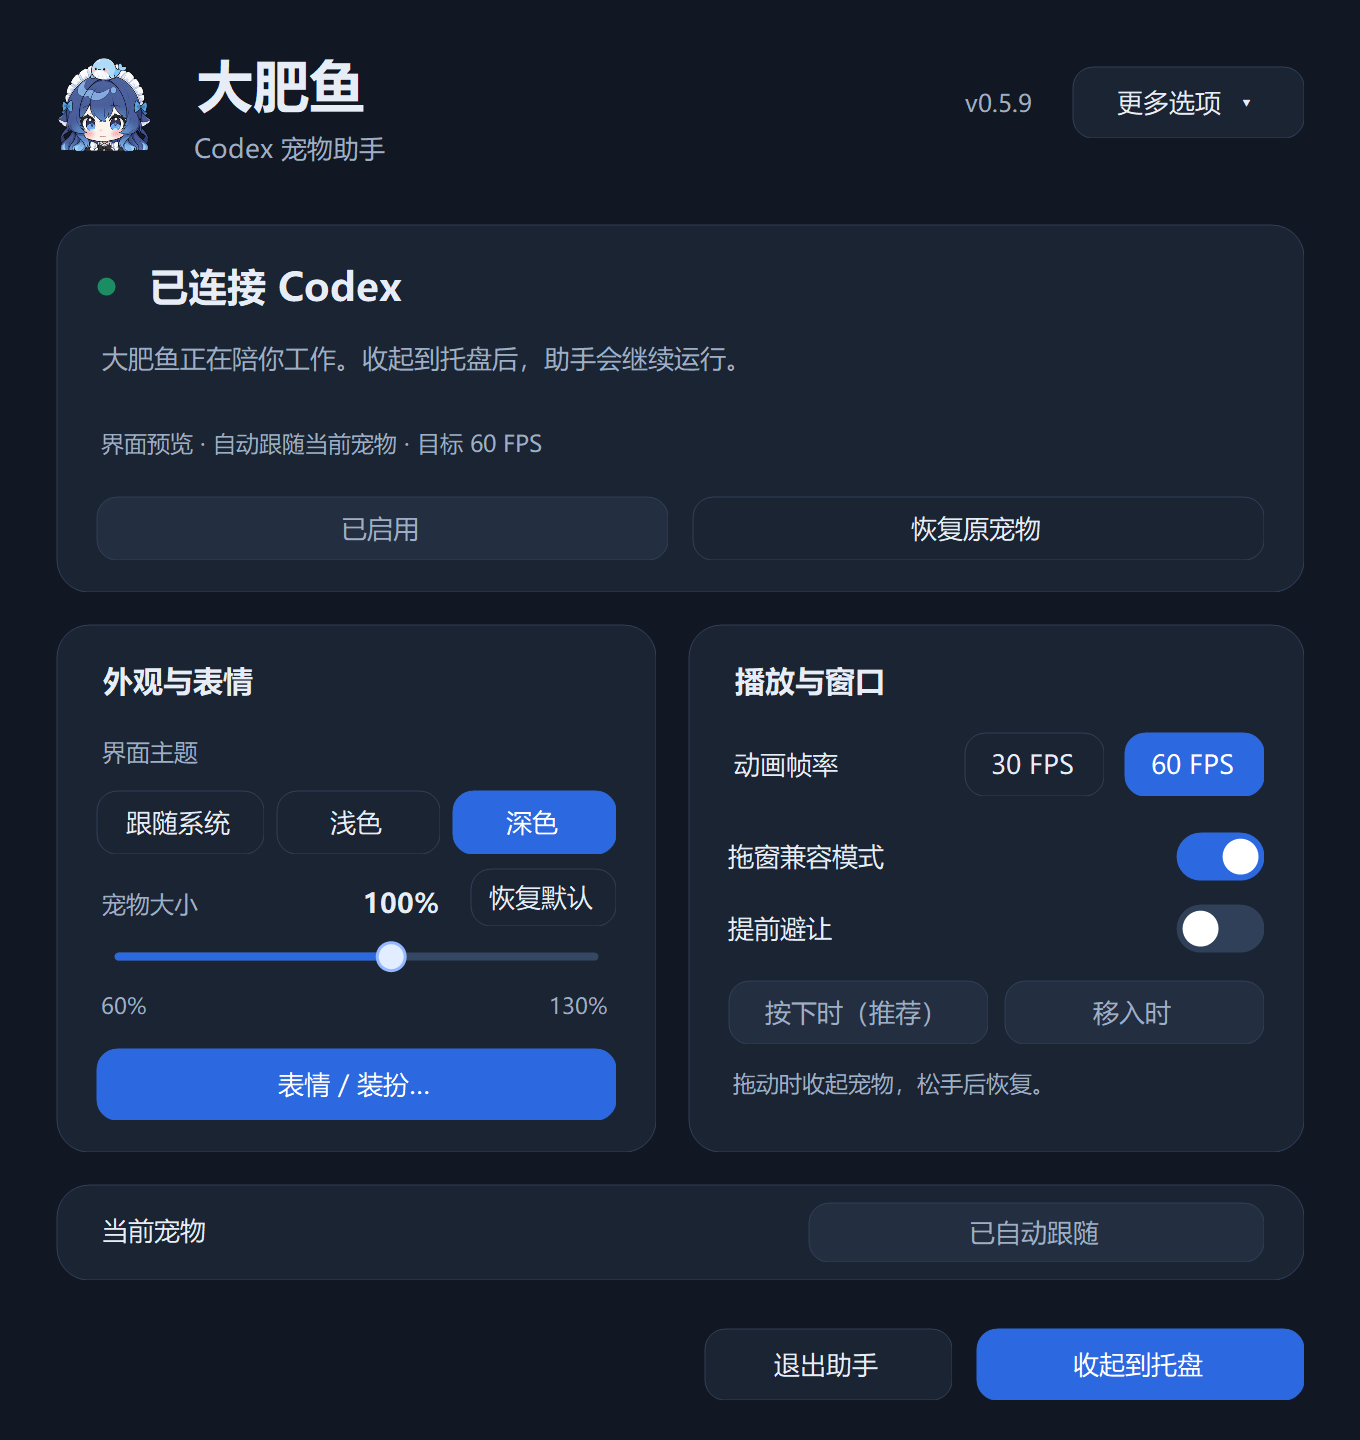
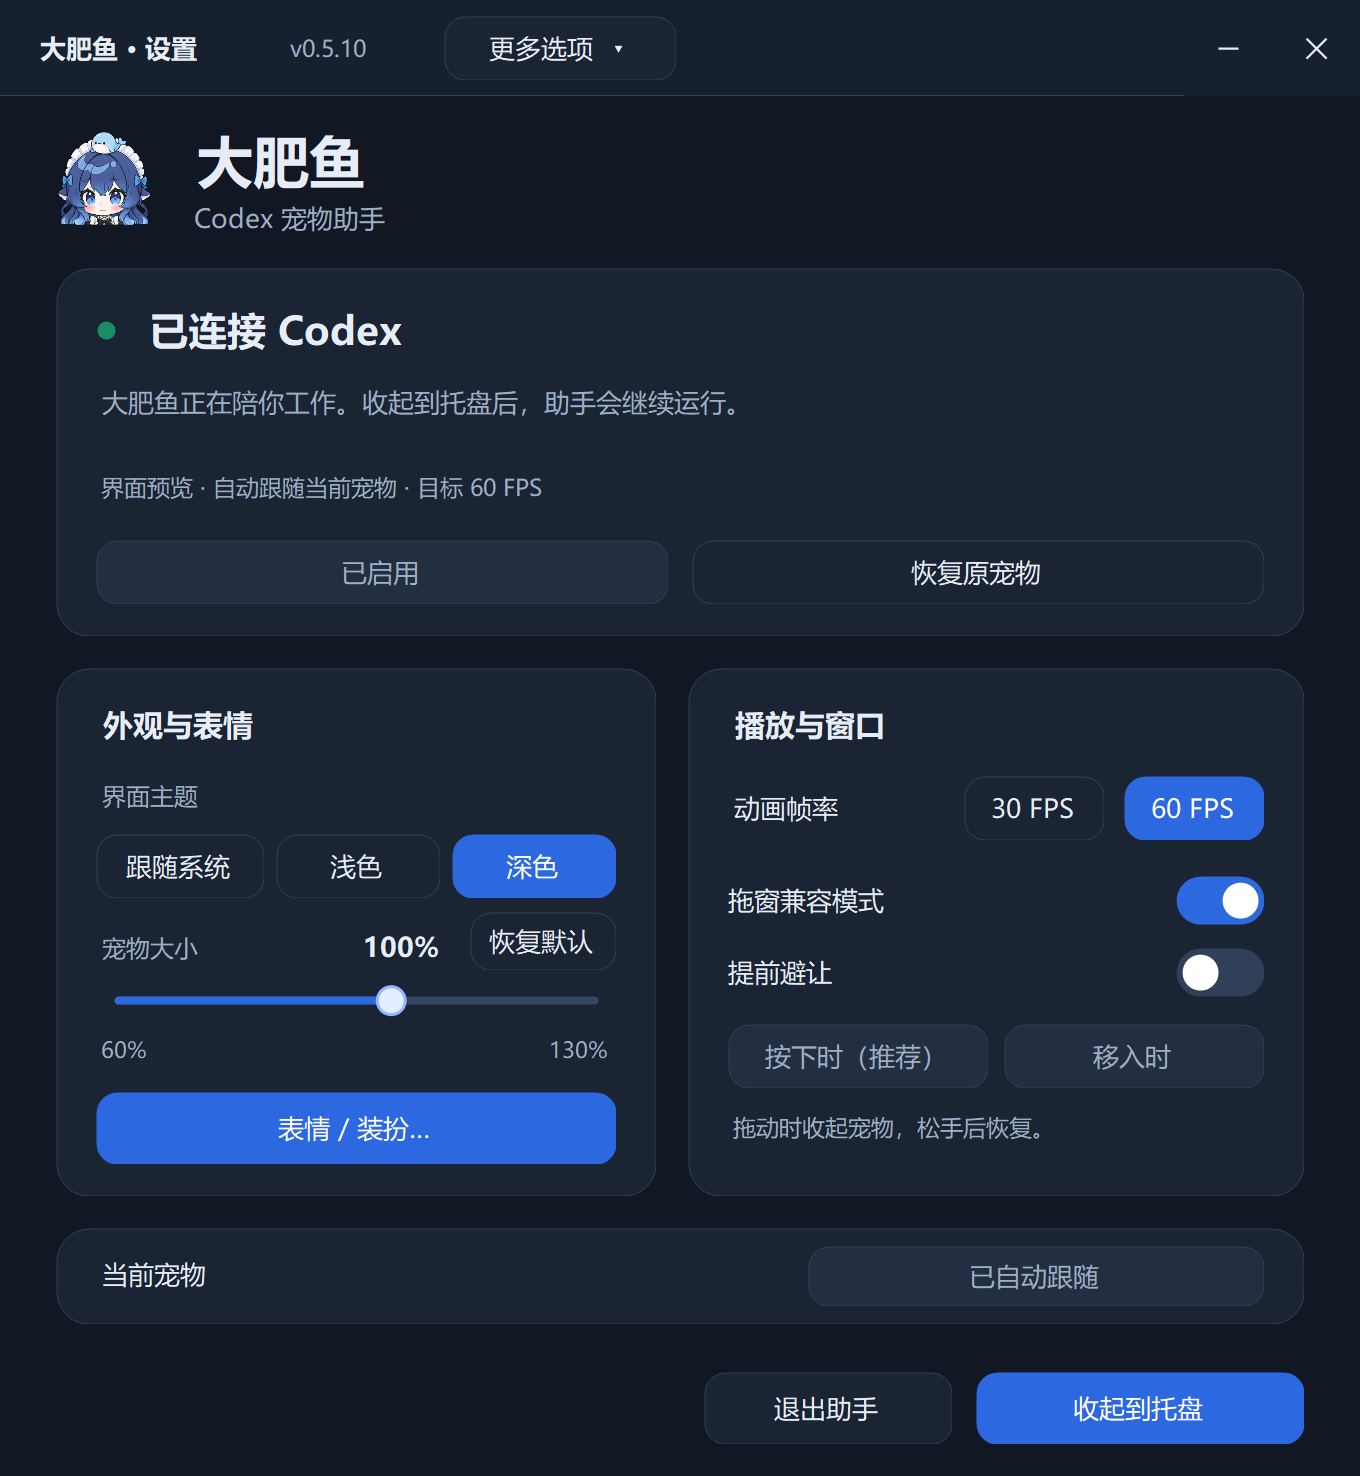
Move dashboard controls into a taller window title bar

diff --git a/native/Dashboard.cs b/native/Dashboard.cs
@@ -25,6 +25,7 @@ internal static class Palette {
     }
     internal static readonly Color Blue=Color.FromArgb(44,105,224);
     internal static Color Accent {get{return Dark?Color.FromArgb(148,184,255):Blue;}}
+    internal static Color Chrome {get{return Dark?Color.FromArgb(23,32,47):Color.FromArgb(231,239,250);}}
     internal static readonly Color Green=Color.FromArgb(28,141,99);
     internal static readonly Color Amber=Color.FromArgb(183,123,23);
     internal static readonly Color Red=Color.FromArgb(184,70,74);
@@ -63,6 +64,7 @@ internal sealed class CardPanel : Panel {
 internal sealed class SoftButton : Button {
     private bool hover;
     private bool primary;
+    internal bool InCaption;
     internal bool Primary { get { return primary; } set { primary=value;Invalidate(); } }
     internal SoftButton(string text,int x,int y,int width,int height,bool accent=false) {
         Text=text;AccessibleName=text;AccessibleRole=AccessibleRole.PushButton;Bounds=new Rectangle(x,y,width,height);primary=accent;
@@ -73,7 +75,7 @@ internal sealed class SoftButton : Button {
     protected override void OnMouseLeave(EventArgs e) { hover=false;Invalidate();base.OnMouseLeave(e); }
     protected override void OnTextChanged(EventArgs e) {AccessibleName=Text;base.OnTextChanged(e);}
     protected override void OnPaint(PaintEventArgs e) {
-        e.Graphics.SmoothingMode=SmoothingMode.AntiAlias;e.Graphics.Clear(Parent is CardPanel?Palette.Surface:Palette.Background);
+        e.Graphics.SmoothingMode=SmoothingMode.AntiAlias;e.Graphics.Clear(InCaption?Palette.Chrome:Parent is CardPanel?Palette.Surface:Palette.Background);
         Color fill=!Enabled?(Palette.Dark?Color.FromArgb(35,47,64):Color.FromArgb(235,240,248)):primary?(hover?Color.FromArgb(34,88,194):Palette.Blue):(hover?(Palette.Dark?Color.FromArgb(38,54,76):Color.FromArgb(235,242,253)):Palette.Surface);
         Color text=!Enabled?Palette.Muted:primary?Color.White:Palette.Ink;
         using(var path=Palette.Rounded(new RectangleF(0.5f,0.5f,Width-1,Height-1),10*e.Graphics.DpiX/96))
@@ -81,6 +83,29 @@ internal sealed class SoftButton : Button {
         using(var pen=new Pen(primary&&Enabled?fill:Palette.Line)) { e.Graphics.FillPath(brush,path);e.Graphics.DrawPath(pen,path); }
         TextRenderer.DrawText(e.Graphics,Text,Font,ClientRectangle,text,TextFormatFlags.HorizontalCenter|TextFormatFlags.VerticalCenter|TextFormatFlags.SingleLine);
         if(Focused&&ShowFocusCues)ControlPaint.DrawFocusRectangle(e.Graphics,Rectangle.Inflate(ClientRectangle,-5,-5),text,fill);
+    }
+}
+
+internal sealed class CaptionButton : Button {
+    private readonly bool closes;
+    private bool hover;
+    internal CaptionButton(bool close,int x,int height) {
+        closes=close;Name=close?"CaptionClose":"CaptionMinimize";Text=close?"关闭":"最小化";AccessibleName=Text;AccessibleRole=AccessibleRole.PushButton;
+        Bounds=new Rectangle(x,0,44,height);FlatStyle=FlatStyle.Flat;FlatAppearance.BorderSize=0;
+        SetStyle(ControlStyles.UserPaint|ControlStyles.OptimizedDoubleBuffer|ControlStyles.AllPaintingInWmPaint,true);
+    }
+    protected override void OnMouseEnter(EventArgs e) {hover=true;Invalidate();base.OnMouseEnter(e);}
+    protected override void OnMouseLeave(EventArgs e) {hover=false;Invalidate();base.OnMouseLeave(e);}
+    protected override void OnPaint(PaintEventArgs e) {
+        Color background=hover?(closes?Color.FromArgb(196,43,53):Palette.Dark?Color.FromArgb(43,56,75):Color.FromArgb(209,222,240)):Palette.Chrome;
+        Color ink=hover&&closes?Color.White:Palette.Ink;
+        var g=e.Graphics;g.Clear(background);g.SmoothingMode=SmoothingMode.AntiAlias;
+        float dpi=g.DpiX/96f,x=Width/2f,y=Height/2f,half=5*dpi;
+        using(var pen=new Pen(ink,1.1f*dpi)){
+            if(closes){g.DrawLine(pen,x-half,y-half,x+half,y+half);g.DrawLine(pen,x+half,y-half,x-half,y+half);}
+            else g.DrawLine(pen,x-half,y,x+half,y);
+        }
+        if(Focused&&ShowFocusCues)ControlPaint.DrawFocusRectangle(g,Rectangle.Inflate(ClientRectangle,-5,-5),ink,background);
     }
 }
 
@@ -236,6 +261,8 @@ internal class AppForm : Form {
     private Icon largeWindowIcon,smallWindowIcon;
     [System.Runtime.InteropServices.DllImport("user32.dll")] private static extern IntPtr SendMessage(IntPtr window,uint message,IntPtr first,IntPtr second);
     [System.Runtime.InteropServices.DllImport("dwmapi.dll")] private static extern int DwmSetWindowAttribute(IntPtr window,int attribute,ref int value,int size);
+    protected virtual bool UsesCustomCaption {get{return false;}}
+    protected virtual Panel ScrollingContent {get{return null;}}
     internal virtual void RefreshTheme() { Palette.Apply(this);if(IsHandleCreated) { int dark=Palette.Dark?1:0;try { DwmSetWindowAttribute(Handle,20,ref dark,4); } catch {} } }
     protected override bool ShowWithoutActivation { get { return Program.IsPreview; } }
     protected void FinishLayout() {
@@ -254,29 +281,47 @@ internal class AppForm : Form {
     }
     private void ApplyDpi(int dpi) {
         if(scaling||!ready)return;scaling=true;SuspendLayout();
+        var scrolling=ScrollingContent;
+        if(scrolling!=null)scrolling.SuspendLayout();
         try {
             float factor=dpi/96f;
             int desiredHeight=(int)Math.Round(designSize.Height*factor);
             int availableHeight=Screen.FromControl(this).WorkingArea.Height-(Height-ClientSize.Height)-(int)(24*factor);
             int height=Math.Min(desiredHeight,Math.Max((int)(300*factor),availableHeight));
-            AutoScrollPosition=Point.Empty;AutoScroll=height<desiredHeight;AutoScrollMinSize=AutoScroll?new Size(0,desiredHeight):Size.Empty;
-            ClientSize=new Size((int)Math.Round(designSize.Width*factor),height);
+            if(scrolling==null){
+                AutoScrollPosition=Point.Empty;AutoScroll=height<desiredHeight;AutoScrollMinSize=AutoScroll?new Size(0,desiredHeight):Size.Empty;
+            }else{
+                scrolling.AutoScrollPosition=Point.Empty;scrolling.AutoScroll=false;scrolling.AutoScrollMinSize=Size.Empty;
+            }
+            var targetSize=new Size((int)Math.Round(designSize.Width*factor),height);
+            if(UsesCustomCaption)Size=targetSize;else ClientSize=targetSize;
             foreach(var item in design) {
                 var bounds=item.Bounds;
                 item.Control.SetBounds((int)Math.Round(bounds.X*factor),(int)Math.Round(bounds.Y*factor),(int)Math.Round(bounds.Width*factor),(int)Math.Round(bounds.Height*factor));
-                item.Control.Font=new Font(item.Family,item.Points*dpi/72f,item.Style,GraphicsUnit.Pixel);
+                item.Control.Font=UsesCustomCaption?new Font(item.Family,item.Points,item.Style,GraphicsUnit.Point):
+                    new Font(item.Family,item.Points*dpi/72f,item.Style,GraphicsUnit.Pixel);
+            }
+            if(scrolling!=null){
+                int fullHeight=scrolling.Height;
+                scrolling.Height=Math.Max(0,height-scrolling.Top);
+                scrolling.AutoScroll=scrolling.Height<fullHeight;
+                if(scrolling.AutoScroll)scrolling.AutoScrollMinSize=new Size(0,fullHeight);
             }
             var previousLarge=largeWindowIcon;var previousSmall=smallWindowIcon;
             largeWindowIcon=Program.LoadIconSize(Program.IconPixels(dpi,false));smallWindowIcon=ShowIcon?Program.LoadIconSize(Program.IconPixels(dpi,true)):null;
             Icon=largeWindowIcon;
             SendMessage(Handle,0x0080,(IntPtr)1,largeWindowIcon.Handle);SendMessage(Handle,0x0080,IntPtr.Zero,smallWindowIcon==null?IntPtr.Zero:smallWindowIcon.Handle);
             if(previousLarge!=null)previousLarge.Dispose();if(previousSmall!=null)previousSmall.Dispose();
-        } finally { ResumeLayout(true);scaling=false; }
+        } finally { if(scrolling!=null)scrolling.ResumeLayout(true);ResumeLayout(true);scaling=false; }
     }
     protected override void Dispose(bool disposing) { base.Dispose(disposing);if(disposing) { if(largeWindowIcon!=null)largeWindowIcon.Dispose();if(smallWindowIcon!=null)smallWindowIcon.Dispose(); } }
 }
 
 internal sealed class Dashboard : AppForm {
+    private const int CaptionHeight=48;
+    private readonly Panel content;
+    private readonly CaptionButton minimize,closeWindow;
+    private readonly Font captionTitle=Palette.Font(9.5f,true),captionVersion=Palette.Font(8.5f);
     internal Action EnableRequested,RestoreRequested,FollowRequested,HideRequested,ExitRequested,LogsRequested,AboutRequested,AppearanceRequested;
     internal Action<string,bool> CloseActionRequested;
     internal string CloseBehavior="ask";
@@ -296,24 +341,28 @@ internal sealed class Dashboard : AppForm {
     private readonly PictureBox logo;
     private bool closeChoiceOpen,updatingPreferences;
     internal bool AllowClose;
+    protected override bool UsesCustomCaption {get{return true;}}
+    protected override Panel ScrollingContent {get{return content;}}
     internal Dashboard() {
-        SuspendLayout();AutoScaleMode=AutoScaleMode.None;Font=Palette.Font(10);BackColor=Palette.Background;ForeColor=Palette.Ink;
-        ClientSize=new Size(680,720);Text="大肥鱼 · 设置";Icon=Program.AppIcon;ShowIcon=false;
-        FormBorderStyle=FormBorderStyle.FixedSingle;MaximizeBox=false;StartPosition=FormStartPosition.CenterScreen;
-        logo=new PictureBox {Image=Program.LoadLogo(),Bounds=new Rectangle(28,28,48,48),SizeMode=PictureBoxSizeMode.Zoom};Controls.Add(logo);
-        Palette.Label(this,"大肥鱼",92,23,420,36,21,true);
-        var subtitle=Palette.Label(this,"Codex 宠物助手",94,65,340,25,9.5f);subtitle.ForeColor=Palette.Muted;
-        var badge=Palette.Label(this,"v"+Program.Version,426,33,94,36,9);badge.TextAlign=ContentAlignment.MiddleRight;badge.ForeColor=Palette.Muted;
-        more=new SoftButton("更多选项  ▾",536,33,116,36);more.Name="DashboardMore";more.AccessibleName="更多选项";more.AccessibleRole=AccessibleRole.ButtonDropDown;
+        SuspendLayout();AutoScaleMode=AutoScaleMode.None;Font=Palette.Font(10);BackColor=Palette.Background;ForeColor=Palette.Ink;DoubleBuffered=true;
+        FormBorderStyle=FormBorderStyle.None;MaximizeBox=false;StartPosition=FormStartPosition.CenterScreen;
+        ClientSize=new Size(680,738);Text="大肥鱼 · 设置";Icon=Program.AppIcon;ShowIcon=false;
+        more=new SoftButton("更多选项  ▾",222,8,116,32);more.Name="DashboardMore";more.InCaption=true;more.AccessibleName="更多选项";more.AccessibleRole=AccessibleRole.ButtonDropDown;
         more.Click+=delegate{ShowOptionsMenu();};Controls.Add(more);
-        var status=new CardPanel {Bounds=new Rectangle(28,112,624,184)};Controls.Add(status);
+        minimize=new CaptionButton(false,592,CaptionHeight);minimize.Click+=delegate{WindowState=FormWindowState.Minimized;};Controls.Add(minimize);
+        closeWindow=new CaptionButton(true,636,CaptionHeight);closeWindow.Click+=delegate{Close();};Controls.Add(closeWindow);
+        content=new Panel {Name="DashboardContent",Bounds=new Rectangle(0,CaptionHeight,680,690)};Controls.Add(content);
+        logo=new PictureBox {Image=Program.LoadLogo(),Bounds=new Rectangle(28,17,48,48),SizeMode=PictureBoxSizeMode.Zoom};content.Controls.Add(logo);
+        Palette.Label(content,"大肥鱼",92,13,330,36,21,true);
+        var subtitle=Palette.Label(content,"Codex 宠物助手",94,52,340,25,9.5f);subtitle.ForeColor=Palette.Muted;
+        var status=new CardPanel {Bounds=new Rectangle(28,86,624,184)};content.Controls.Add(status);
         dot=new StatusDot {Bounds=new Rectangle(20,26,10,10)};status.Controls.Add(dot);
         title=Palette.Label(status,"准备连接",42,18,560,30,14.5f,true);
         description=Palette.Label(status,"正在准备大肥鱼的运行环境。",20,58,584,40,9.5f);description.ForeColor=Palette.Muted;
         metadata=Palette.Label(status,"本机连接 · 自动跟随当前宠物",20,102,584,22,8.5f);metadata.ForeColor=Palette.Muted;
         enable=new SoftButton("启用大肥鱼",20,136,286,32,true);enable.Name="EnablePet";enable.Click+=delegate {if(EnableRequested!=null)EnableRequested();};status.Controls.Add(enable);
         restore=new SoftButton("恢复原宠物",318,136,286,32);restore.Name="RestorePet";restore.Click+=delegate {if(RestoreRequested!=null)RestoreRequested();};status.Controls.Add(restore);
-        var looks=new CardPanel {Bounds=new Rectangle(28,312,300,264)};Controls.Add(looks);
+        var looks=new CardPanel {Bounds=new Rectangle(28,286,300,264)};content.Controls.Add(looks);
         Palette.Label(looks,"外观与表情",20,18,260,28,11,true);
         var themeLabel=Palette.Label(looks,"界面主题",20,56,260,23,9);themeLabel.ForeColor=Palette.Muted;
         themeSystem=new SoftButton("跟随系统",20,83,84,32);themeSystem.Name="ThemeSystem";themeSystem.Click+=delegate {if(ThemeRequested!=null)ThemeRequested("system");};looks.Controls.Add(themeSystem);
@@ -328,7 +377,7 @@ internal sealed class Dashboard : AppForm {
         Palette.Label(looks,"60%",20,183,60,17,8).ForeColor=Palette.Muted;
         var maximum=Palette.Label(looks,"130%",220,183,60,17,8);maximum.TextAlign=ContentAlignment.TopRight;maximum.ForeColor=Palette.Muted;
         appearance=new SoftButton("表情 / 装扮…",20,212,260,36,true);appearance.Name="OpenAppearance";appearance.Click+=delegate {if(AppearanceRequested!=null)AppearanceRequested();};looks.Controls.Add(appearance);
-        var settings=new CardPanel {Bounds=new Rectangle(344,312,308,264)};Controls.Add(settings);
+        var settings=new CardPanel {Bounds=new Rectangle(344,286,308,264)};content.Controls.Add(settings);
         Palette.Label(settings,"播放与窗口",20,18,268,28,11,true);Palette.Label(settings,"动画帧率",20,61,108,24,9.5f);
         fps30=new SoftButton("30 FPS",138,54,70,32);fps30.Name="Fps30";fps30.Click+=delegate {if(FpsRequested!=null)FpsRequested(30);};settings.Controls.Add(fps30);
         fps60=new SoftButton("60 FPS",218,54,70,32);fps60.Name="Fps60";fps60.Click+=delegate {if(FpsRequested!=null)FpsRequested(60);};settings.Controls.Add(fps60);
@@ -337,11 +386,11 @@ internal sealed class Dashboard : AppForm {
         avoidPress=new SoftButton("按下时（推荐）",20,178,130,32);avoidPress.Name="AvoidPress";avoidPress.Click+=delegate{if(!updatingPreferences&&!avoidPress.Primary&&AvoidanceTriggerRequested!=null)AvoidanceTriggerRequested("press");};settings.Controls.Add(avoidPress);
         avoidHover=new SoftButton("移入时",158,178,130,32);avoidHover.Name="AvoidHover";avoidHover.Click+=delegate{if(!updatingPreferences&&!avoidHover.Primary&&AvoidanceTriggerRequested!=null)AvoidanceTriggerRequested("hover");};settings.Controls.Add(avoidHover);
         dragHint=Palette.Label(settings,"拖动时收起宠物，松手后恢复。",20,222,268,32,8.5f);dragHint.ForeColor=Palette.Muted;
-        var binding=new CardPanel {Bounds=new Rectangle(28,592,624,48)};Controls.Add(binding);
+        var binding=new CardPanel {Bounds=new Rectangle(28,566,624,48)};content.Controls.Add(binding);
         Palette.Label(binding,"当前宠物",20,14,180,24,9.5f);
         follow=new SoftButton("恢复自动跟随",376,9,228,30);follow.Name="FollowPet";follow.Click+=delegate {if(FollowRequested!=null)FollowRequested();};binding.Controls.Add(follow);
-        var exit=new SoftButton("退出助手",352,664,124,36);exit.Name="ExitAssistant";exit.Click+=delegate {if(ExitRequested!=null)ExitRequested();};Controls.Add(exit);
-        var hide=new SoftButton("收起到托盘",488,664,164,36,true);hide.Name="HideToTray";hide.Click+=delegate {if(HideRequested!=null)HideRequested();};Controls.Add(hide);
+        var exit=new SoftButton("退出助手",352,638,124,36);exit.Name="ExitAssistant";exit.Click+=delegate {if(ExitRequested!=null)ExitRequested();};content.Controls.Add(exit);
+        var hide=new SoftButton("收起到托盘",488,638,164,36,true);hide.Name="HideToTray";hide.Click+=delegate {if(HideRequested!=null)HideRequested();};content.Controls.Add(hide);
         FormClosing+=delegate(object sender,FormClosingEventArgs e) {
             if(AllowClose)return;
             e.Cancel=true;if(closeChoiceOpen)return;
@@ -360,6 +409,42 @@ internal sealed class Dashboard : AppForm {
             } finally { closeChoiceOpen=false; }
         };
         FinishLayout();
+    }
+
+    protected override CreateParams CreateParams {
+        get{
+            var parameters=base.CreateParams;
+            parameters.Style|=0x000A0000; // WS_SYSMENU | WS_MINIMIZEBOX, no native caption
+            return parameters;
+        }
+    }
+
+    protected override bool ProcessCmdKey(ref Message message,Keys keyData) {
+        if(keyData==(Keys.Alt|Keys.F4)){Close();return true;}
+        return base.ProcessCmdKey(ref message,keyData);
+    }
+
+    protected override void WndProc(ref Message message) {
+        if(message.Msg==0x0084&&content!=null){ // WM_NCHITTEST
+            long point=message.LParam.ToInt64();
+            var client=PointToClient(new Point(unchecked((short)point),unchecked((short)(point>>16))));
+            if(ClientRectangle.Contains(client)){
+                bool drag=client.Y<content.Top&&!more.Bounds.Contains(client)&&!minimize.Bounds.Contains(client)&&!closeWindow.Bounds.Contains(client);
+                message.Result=(IntPtr)(drag?2:1);return; // HTCAPTION or HTCLIENT
+            }
+        }
+        base.WndProc(ref message);
+    }
+
+    protected override void OnPaint(PaintEventArgs e) {
+        base.OnPaint(e);if(content==null)return;
+        float scale=DeviceDpi/96f;
+        int height=content.Top;
+        using(var brush=new SolidBrush(Palette.Chrome))e.Graphics.FillRectangle(brush,0,0,ClientSize.Width,height);
+        using(var pen=new Pen(Palette.Line))e.Graphics.DrawLine(pen,0,height-1,ClientSize.Width,height-1);
+        const TextFormatFlags flags=TextFormatFlags.Left|TextFormatFlags.VerticalCenter|TextFormatFlags.SingleLine|TextFormatFlags.NoPadding;
+        TextRenderer.DrawText(e.Graphics,Text,captionTitle,new Rectangle((int)Math.Round(20*scale),0,(int)Math.Round(114*scale),height),Palette.Ink,flags);
+        TextRenderer.DrawText(e.Graphics,"v"+Program.Version,captionVersion,new Rectangle((int)Math.Round(145*scale),0,(int)Math.Round(68*scale),height),Palette.Muted,flags);
     }
 
     private void ShowPetSize(int percent) {sizeValue.Text=percent+"%";}
@@ -402,7 +487,7 @@ internal sealed class Dashboard : AppForm {
         appearance.Enabled=!busy;
         follow.Text=automatic?"已自动跟随":"恢复自动跟随";follow.Enabled=!busy&&!automatic;
     }
-    protected override void Dispose(bool disposing) { if(disposing){if(options!=null)options.Dispose();if(logo.Image!=null)logo.Image.Dispose();}base.Dispose(disposing); }
+    protected override void Dispose(bool disposing) { if(disposing){if(options!=null)options.Dispose();if(logo.Image!=null)logo.Image.Dispose();captionTitle.Dispose();captionVersion.Dispose();}base.Dispose(disposing); }
 }
 
 internal sealed class CloseChoice : AppForm {

diff --git a/native/AssemblyInfo.cs b/native/AssemblyInfo.cs
@@ -5,8 +5,8 @@ using System.Runtime.InteropServices;
 [assembly: AssemblyCompany("Chris-Geeky")]
 [assembly: AssemblyProduct("大肥鱼 · Codex 宠物助手")]
 [assembly: AssemblyCopyright("Copyright © 2026 Chris-Geeky")]
-[assembly: AssemblyVersion("0.5.9.0")]
-[assembly: AssemblyFileVersion("0.5.9.0")]
-[assembly: AssemblyInformationalVersion("0.5.9")]
+[assembly: AssemblyVersion("0.5.10.0")]
+[assembly: AssemblyFileVersion("0.5.10.0")]
+[assembly: AssemblyInformationalVersion("0.5.10")]
 [assembly: System.Runtime.Versioning.TargetFramework(".NETFramework,Version=v4.8",FrameworkDisplayName=".NET Framework 4.8")]
 [assembly: ComVisible(false)]

diff --git a/RELEASE_NOTES.md b/RELEASE_NOTES.md
@@ -1,7 +1,7 @@
-Windows x64 便携预览版：自定义宠物大小，控制面板更清爽。
+Windows x64 便携预览版：版本号和菜单移入加高的窗口标题栏。
 
-- “外观与表情”提供 60%–130% 滑条，可按 1% 微调，松手后应用并保存。可一键恢复 100%。
-- 标题栏去掉小头像。右上角“更多选项”集中放置版本信息、项目主页、日志和关闭偏好。底部保留“退出助手”和“收起到托盘”。
-- 完整解压 codex-dafeiyu-live2d-v0.5.9-win-x64.zip，双击 CodexDafeiyu.exe。已有主题、装扮、大小、帧率和关闭偏好继续使用。
+- 窗口最上方显示设置标题、完整版本号和“更多选项”。正文的头像区域留给角色名称。
+- 顶栏加高，空白处可拖动窗口，右侧保留最小化和关闭。正文需要滚动时，标题栏仍固定在顶部。
+- 完整解压 codex-dafeiyu-live2d-v0.5.10-win-x64.zip，双击 CodexDafeiyu.exe。已有主题、装扮、大小、帧率和关闭偏好继续使用。
 
 此版本仍为非官方、未签名的 Windows x64 便携预览版。
